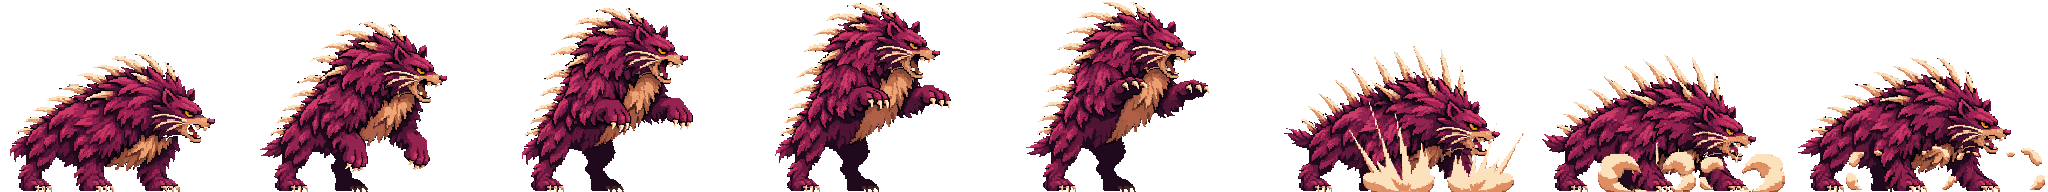
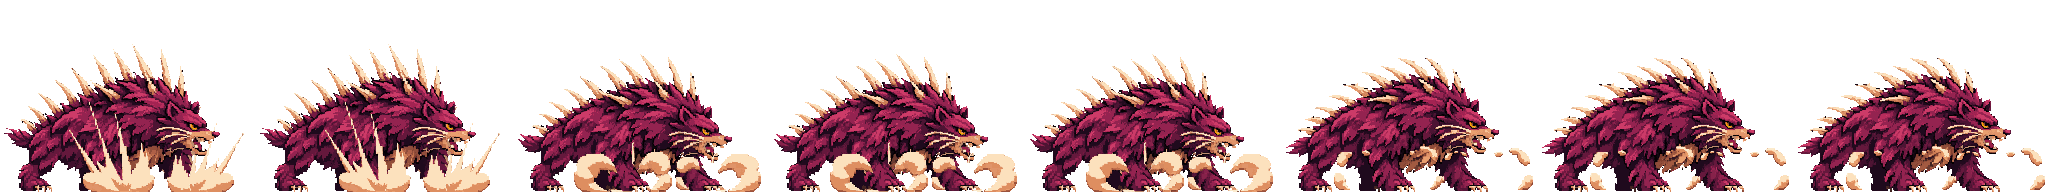
Add Mogurodon Stage 1 heavy rear and charge hold
Rear is cut from the existing rear-and-slam strip and the slam now starts
at the crash, so the hit lands right on release. Hold is a straining 4-frame
loop generated from the peak pose (1 generation).

Claude-Session: https://claude.ai/code/session_01SJ9dCxk1i12Uvvatxm2TUG

diff --git a/src/presentation.ts b/src/presentation.ts
@@ -56,7 +56,9 @@ export const SPRITES:Record<string,Form&{stages?:Record<number,Form>}>={
    // Strips that reach forward are generated from the padded base (mogurodon-s1-pad: 205px wide at x=10), so they carry
    // scale 205/256 and anchor 10+128*scale to draw at the same size and position as the full-frame strips.
    light1:{src:'assets/mogurodon-s1-light1.png',frames:8,fps:24,once:true,...S1_PAD},light2:{src:'assets/mogurodon-s1-light2.png',frames:8,fps:21,once:true},light3:{src:'assets/mogurodon-s1-light3.png',frames:8,fps:20,once:true,...S1_PAD},
-   // Heavy release: rear up and slam both paws down (no rear/hold strips yet, so charging shows the idle).
+   // Heavy: rear onto the hind legs, hold (straining loop) while charging, slam both paws down on release. Rear and slam are cut
+   // from one generated strip, so the slam starts at the crash; its frames are held to keep Stage 2's 0.5s recovery.
+   heavyRear:{src:'assets/mogurodon-s1-heavy-rear.png',frames:5,fps:20,once:true,...S1_PAD},heavyHold:{src:'assets/mogurodon-s1-heavy-hold.png',frames:4,fps:10,...S1_PAD},
    heavySlam:{src:'assets/mogurodon-s1-heavy-slam.png',frames:8,fps:16,once:true,...S1_PAD}}}}},
 };
 // Resolves the form drawn for a kaiju at a stage (stage omitted = base form).

diff --git a/README.md b/README.md
@@ -55,7 +55,7 @@ Score is earned points minus actual HP damage penalty, including healed damage. 
 
 **Art:** `public/assets/mogurodon.png` is the first final sprite (transparent, keyed from the supplied render and downscaled to 444×231). Sprites are registered in `SPRITES` in `src/presentation.ts` and used by gameplay, selection previews and the ending scene; kaiju without a sprite fall back to the geometric silhouettes. Mogurodon has an 8-frame idle loop (`public/assets/mogurodon-idle.png`, 256×144 frames, 8 fps) generated with PixelLab from the base sprite via `tools/pixellab_animate.py`; and an 8-frame all-fours walk loop (`public/assets/mogurodon-walk.png`, 10 fps, generated from a planted all-fours pose with that pose as both first and last frame so it closes cleanly) plays while moving on the ground. The light combo plays one-shot strips per hit: 1 overhead right-arm swipe (`mogurodon-swipe-right.png`, 8 frames, 24 fps), 2 left-arm swipe with the far claw raised behind the head (`mogurodon-swipe-left.png`, 10 frames, 26 fps; built from a PixelLab pose-edit keyframe plus two animated segments), 3 lunging bite (`mogurodon-bite.png`, 8 frames, 20 fps). All three start and end on idle frame 0, and idle/walk restart at frame 0 when they begin, so attacks blend in and out of the idle without a pose snap. Heavy (K): holding plays `mogurodon-heavy-rear.png` once (rear back onto the haunches), then loops `mogurodon-heavy-hold.png` while charging; release plays `mogurodon-heavy-slam.png` (overhead slam into the ground with dust, settling back to idle). These strips are 256x192 for headroom. Ranged (L): tail whips forward and flings a spike — `mogurodon-ranged-stand.png` standing (9 frames), `mogurodon-ranged-crouch.png` while crouched (8 frames), both 20 fps with the tail sweeping forward along the flank; the projectile is drawn as a bone-white quill. Crouch (S): `mogurodon-crouch-down.png` into `mogurodon-crouch.png` (breathing loop, drawn full size instead of the old 0.6 squash), `mogurodon-crouch-up.png` (reversed) on release. Jump: `mogurodon-jump-rise.png` (push-off into the leap, only when launched upward), `mogurodon-jump-air.png` (airborne loop for any time off the ground), `mogurodon-jump-land.png` (impact and recover) on touchdown; 256x192, bottom-aligned so physics alone moves him. Climb (W): `mogurodon-climb-grab.png` (swing up onto the wall), `mogurodon-climb.png` (hand-over-hand loop while ascending), `mogurodon-climb-mantle.png` (haul over onto the roof into idle); 256x256, facing the wall being climbed. The loop pauses while hanging still, and jumping off goes straight into the jump air loop. Seismic Rupture (U): `mogurodon-ult-roar.png` (rear up and roar, then slam down with a burst) followed by `mogurodon-ult-pound.png` (alternating ground-pounding loop, roughly one slam per fissure pulse) for the rest of the 2.4s Ultimate. The first fissure is delayed to the roar's crash-down (impact frame 5, ~0.36s), so Mogurodon's Ultimate sends 9 fissure pulses instead of 10. `mogurodon.png` is kept as the higher-res base/reference.
 
-**Per-stage forms:** `SPRITES[name]` is the base form (for Mogurodon, the art above is its Stage 2 design, also used for Stage 3); `stages[n]` overrides it for one stage. Inside a stage form a missing strip falls back to that form's own `idle`, while gameplay timing (`animDuration`/`animImpact`) borrows the base strip's, so combat is unchanged until a form's strips are animated. Mogurodon Stage 1 (`assets/mogurodon-s1.png`, 256x192, bottom-aligned) is the base; its 8-frame idle (`assets/mogurodon-s1-idle.png`, 8 fps) and walk (`assets/mogurodon-s1-walk.png`, 10 fps, base pose as first and last frame) loops cost one PixelLab generation each. Light combo (`light1`/`light2`/`light3`, keyed by hit order so each form picks its own moves): near (left) paw swipe, far (right) paw swipe, lunging bite (`assets/mogurodon-s1-light1..3.png`) and heavy slam (`assets/mogurodon-s1-heavy-slam.png`, rear up and slam both paws down). The full-frame base touches the frame edge, so strips that reach forward (light1, light3, heavySlam) are generated from a padded base, `assets/mogurodon-s1-pad.png` (205px wide at x=10, made with `tools/prep_form_base.py --width 205 --x 10`), and registered with `scale`/`anchor` so they draw at the same size and position. Jump: `assets/mogurodon-s1-jump-rise.png` (9 frames, 24 fps) and `assets/mogurodon-s1-jump-air.png` (4-frame loop, 8 fps, generated from the rise's last frame) and `assets/mogurodon-s1-jump-land.png` (5 frames, 20 fps, air pose to base pose), bottom-aligned with `tools/bottom_align.py`. PixelLab washes out the gold eye after frame 0; `tools/fix_eye.py --ref assets/mogurodon-s1.png --radius 30` tracks the head and restores it. Animate further strips with `tools/pixellab_animate.py` and add strips to `stages[1].anims`. `tools/prep_form_base.py` keys a black-background render and fits it into a frame for that.
+**Per-stage forms:** `SPRITES[name]` is the base form (for Mogurodon, the art above is its Stage 2 design, also used for Stage 3); `stages[n]` overrides it for one stage. Inside a stage form a missing strip falls back to that form's own `idle`, while gameplay timing (`animDuration`/`animImpact`) borrows the base strip's, so combat is unchanged until a form's strips are animated. Mogurodon Stage 1 (`assets/mogurodon-s1.png`, 256x192, bottom-aligned) is the base; its 8-frame idle (`assets/mogurodon-s1-idle.png`, 8 fps) and walk (`assets/mogurodon-s1-walk.png`, 10 fps, base pose as first and last frame) loops cost one PixelLab generation each. Light combo (`light1`/`light2`/`light3`, keyed by hit order so each form picks its own moves): near (left) paw swipe, far (right) paw swipe, lunging bite (`assets/mogurodon-s1-light1..3.png`) and heavy: `assets/mogurodon-s1-heavy-rear.png` (onto the hind legs) and `assets/mogurodon-s1-heavy-slam.png` (crash and settle) are cut from one generated rear-and-slam strip, with `assets/mogurodon-s1-heavy-hold.png` (straining 4-frame loop) generated from the peak pose. The full-frame base touches the frame edge, so strips that reach forward (light1, light3, heavySlam) are generated from a padded base, `assets/mogurodon-s1-pad.png` (205px wide at x=10, made with `tools/prep_form_base.py --width 205 --x 10`), and registered with `scale`/`anchor` so they draw at the same size and position. Jump: `assets/mogurodon-s1-jump-rise.png` (9 frames, 24 fps) and `assets/mogurodon-s1-jump-air.png` (4-frame loop, 8 fps, generated from the rise's last frame) and `assets/mogurodon-s1-jump-land.png` (5 frames, 20 fps, air pose to base pose), bottom-aligned with `tools/bottom_align.py`. PixelLab washes out the gold eye after frame 0; `tools/fix_eye.py --ref assets/mogurodon-s1.png --radius 30` tracks the head and restores it. Animate further strips with `tools/pixellab_animate.py` and add strips to `stages[1].anims`. `tools/prep_form_base.py` keys a black-background render and fits it into a frame for that.
 
 No user sprites were imported or overwritten; supplied documents were preserved. All current art is explicitly temporary Canvas geometry, with no AI asset generation or sound. Put final hand-drawn sprites in `public/assets/`, preserve transparent originals, use bottom-center anchors, integer frame rectangles and nearest-neighbor filtering. Final kaiju sheets, building/unit sprites, intro/menu and six ending illustrations remain missing.
 
